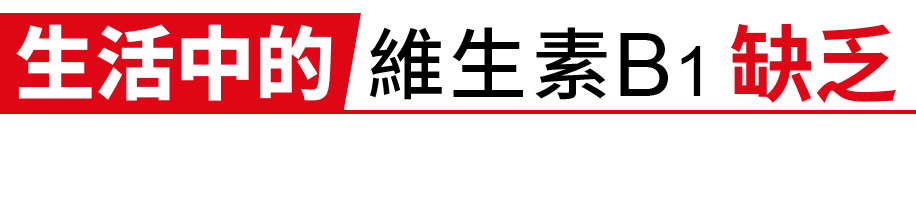
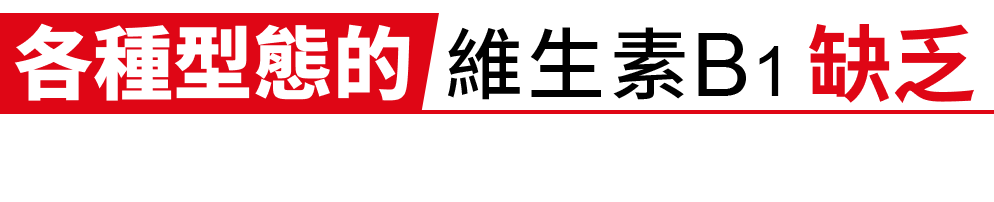
修改選單名稱 #20210705

Changed region(s): [[0.0, 0.0594, 0.9782, 0.5644], [0.917, 0.1188, 0.9782, 0.1782]]

diff --git a/blog-article-01.html b/blog-article-01.html
@@ -65,12 +65,12 @@
         })(window, document, "script", "https://s.yimg.com/wi/ytc.js", "dotq");
     </script>
 
-    <title>生活中的維生素B1缺乏</title>
+    <title>各種型態的維生素B1缺乏</title>
     <meta name="title" content="生活中的維生素B1缺乏" />
     <meta name="description" content="醫療級B群，易被腸道吸收，有效作用快速到達全身" />
     <meta name="keywords" content="台灣武田，合利他命，醫療級B群，A25，強效錠，金強效錠，Alinamin，疲勞無力，眼睛疲勞，肩頸僵硬，腰背酸痛，手腳發麻，嚴重酸痛，神經痛，日本市佔第一" />
     <meta property="og:title" content="合利他命-醫療級維他命B群專家">
-    <meta property="og:description" content="生活中的維生素B1缺乏">
+    <meta property="og:description" content="各種型態的維生素B1缺乏">
     <meta property="og:url" content="https://alinamin.com.tw/fursultiamine">
     <link rel="stylesheet" href="css/blogs.css">
 </head>
@@ -86,7 +86,7 @@
             <div class="content flex-b-c">
                 <a href="index.html" class="logo" g-event="Nav_takeda台灣武田Logo"></a>
                 <nav>
-                    <a class="current" href="blogs.html">生活中的維生素B1缺乏</a>
+                    <a class="current" href="blogs.html">各種型態的維生素B1缺乏</a>
                     <a href="cause.html" g-event="Nav_疲酸麻的原因">你的疲。酸。麻原因</a>
                     <a href="fursultiamine.html" g-event="Nav_醫療級B1 TTFD">合利他命醫療級B群</a>
                     <a href="lineup.html" g-event="Nav_全產品列表">全產品列表</a>
@@ -119,7 +119,7 @@
 
         <div class="menu-wrap">
             <div class="menuBox">
-                <a href="blogs.html">生活中維生素B1缺乏</a>
+                <a href="blogs.html">各型態維生素B1缺乏</a>
                 <a href="cause.html" g-event="Nav_疲酸麻的原因">你的疲。酸。麻原因</a>
                 <a href="fursultiamine.html" g-event="Nav_Nav_醫療級B1 TTFD">合利他命醫療級B群</a>
                 <a href="lineup.html" g-event="Nav_全產品列表">全產品列表</a>

diff --git a/blog-article-02.html b/blog-article-02.html
@@ -65,12 +65,12 @@
         })(window, document, "script", "https://s.yimg.com/wi/ytc.js", "dotq");
     </script>
 
-    <title>生活中的維生素B1缺乏</title>
+    <title>各種型態的維生素B1缺乏</title>
     <meta name="title" content="生活中的維生素B1缺乏" />
     <meta name="description" content="醫療級B群，易被腸道吸收，有效作用快速到達全身" />
     <meta name="keywords" content="台灣武田，合利他命，醫療級B群，A25，強效錠，金強效錠，Alinamin，疲勞無力，眼睛疲勞，肩頸僵硬，腰背酸痛，手腳發麻，嚴重酸痛，神經痛，日本市佔第一" />
     <meta property="og:title" content="合利他命-醫療級維他命B群專家">
-    <meta property="og:description" content="生活中的維生素B1缺乏">
+    <meta property="og:description" content="各種型態的維生素B1缺乏">
     <meta property="og:url" content="https://alinamin.com.tw/fursultiamine">
     <link rel="stylesheet" href="css/blogs.css">
 </head>
@@ -86,7 +86,7 @@
             <div class="content flex-b-c">
                 <a href="index.html" class="logo" g-event="Nav_takeda台灣武田Logo"></a>
                 <nav>
-                    <a class="current" href="blogs.html">生活中的維生素B1缺乏</a>
+                    <a class="current" href="blogs.html">各種型態的維生素B1缺乏</a>
                     <a href="cause.html" g-event="Nav_疲酸麻的原因">你的疲。酸。麻原因</a>
                     <a href="fursultiamine.html" g-event="Nav_醫療級B1 TTFD">合利他命醫療級B群</a>
                     <a href="lineup.html" g-event="Nav_全產品列表">全產品列表</a>
@@ -119,7 +119,7 @@
 
         <div class="menu-wrap">
             <div class="menuBox">
-                <a href="blogs.html">生活中維生素B1缺乏</a>
+                <a href="blogs.html">各型態維生素B1缺乏</a>
                 <a href="cause.html" g-event="Nav_疲酸麻的原因">你的疲。酸。麻原因</a>
                 <a href="fursultiamine.html" g-event="Nav_Nav_醫療級B1 TTFD">合利他命醫療級B群</a>
                 <a href="lineup.html" g-event="Nav_全產品列表">全產品列表</a>

diff --git a/blogs.html b/blogs.html
@@ -86,7 +86,7 @@
             <div class="content flex-b-c">
                 <a href="index.html" class="logo" g-event="Nav_takeda台灣武田Logo"></a>
                 <nav>
-                    <a class="current" href="blogs.html">生活中的維生素B1缺乏</a>
+                    <a class="current" href="blogs.html">各種型態的維生素B1缺乏</a>
                     <a href="cause.html" g-event="Nav_疲酸麻的原因">你的疲。酸。麻原因</a>
                     <a href="fursultiamine.html" g-event="Nav_醫療級B1 TTFD">合利他命醫療級B群</a>
                     <a href="lineup.html" g-event="Nav_全產品列表">全產品列表</a>
@@ -119,7 +119,7 @@
 
         <div class="menu-wrap">
             <div class="menuBox">
-                <a href="blogs.html">生活中維生素B1缺乏</a>
+                <a href="blogs.html">各型態維生素B1缺乏</a>
                 <a href="cause.html" g-event="Nav_疲酸麻的原因">你的疲。酸。麻原因</a>
                 <a href="fursultiamine.html" g-event="Nav_Nav_醫療級B1 TTFD">合利他命醫療級B群</a>
                 <a href="lineup.html" g-event="Nav_全產品列表">全產品列表</a>

diff --git a/cause.html b/cause.html
@@ -86,7 +86,7 @@
             <div class="content flex-b-c">
                 <a href="index.html" class="logo" g-event="Nav_takeda台灣武田Logo"></a>
                 <nav>
-                    <a href="blogs.html">生活中的維生素B1缺乏</a>
+                    <a href="blogs.html">各種型態的維生素B1缺乏</a>
                     <a class="current" href="cause.html" g-event="Nav_疲酸麻的原因">你的疲。酸。麻原因</a>
                     <a href="fursultiamine.html" g-event="Nav_醫療級B1 TTFD">合利他命醫療級B群</a>
                     <a href="lineup.html" g-event="Nav_全產品列表">全產品列表</a>
@@ -119,7 +119,7 @@
 
         <div class="menu-wrap">
             <div class="menuBox">
-                <a href="blogs.html">生活中維生素B1缺乏</a>
+                <a href="blogs.html">各型態維生素B1缺乏</a>
                 <a href="cause.html" g-event="Nav_疲酸麻的原因">你的疲。酸。麻原因</a>
                 <a href="fursultiamine.html" g-event="Nav_Nav_醫療級B1 TTFD">合利他命醫療級B群</a>
                 <a href="lineup.html" g-event="Nav_全產品列表">全產品列表</a>

diff --git a/fursultiamine.html b/fursultiamine.html
@@ -87,7 +87,7 @@
             <div class="content flex-b-c">
                 <a href="index.html" class="logo" g-event="Nav_takeda台灣武田Logo"></a>
                 <nav>
-                    <a href="blogs.html">生活中的維生素B1缺乏</a>
+                    <a href="blogs.html">各種型態的維生素B1缺乏</a>
                     <a href="cause.html" g-event="Nav_疲酸麻的原因">你的疲。酸。麻原因</a>
                     <a class="current" href="fursultiamine.html" g-event="Nav_醫療級B1 TTFD">合利他命醫療級B群</a>
                     <a href="lineup.html" g-event="Nav_全產品列表">全產品列表</a>
@@ -120,7 +120,7 @@
 
         <div class="menu-wrap">
             <div class="menuBox">
-                <a href="blogs.html">生活中維生素B1缺乏</a>
+                <a href="blogs.html">各型態維生素B1缺乏</a>
                 <a href="cause.html" g-event="Nav_疲酸麻的原因">你的疲。酸。麻原因</a>
                 <a href="fursultiamine.html" g-event="Nav_Nav_醫療級B1 TTFD">合利他命醫療級B群</a>
                 <a href="lineup.html" g-event="Nav_全產品列表">全產品列表</a>

diff --git a/lineup.html b/lineup.html
@@ -90,7 +90,7 @@
             <div class="content flex-b-c">
                 <a href="index.html" class="logo" g-event="Nav_takeda台灣武田Logo"></a>
                 <nav>
-                    <a href="blogs.html">生活中的維生素B1缺乏</a>
+                    <a href="blogs.html">各種型態的維生素B1缺乏</a>
                     <a href="cause.html" g-event="Nav_疲酸麻的原因">你的疲。酸。麻原因</a>
                     <a href="fursultiamine.html" g-event="Nav_醫療級B1 TTFD">合利他命醫療級B群</a>
                     <a class="current" href="lineup.html" g-event="Nav_全產品列表">全產品列表</a>
@@ -123,7 +123,7 @@
 
         <div class="menu-wrap">
             <div class="menuBox">
-                <a href="blogs.html">生活中維生素B1缺乏</a>
+                <a href="blogs.html">各型態維生素B1缺乏</a>
                 <a href="cause.html" g-event="Nav_疲酸麻的原因">你的疲。酸。麻原因</a>
                 <a href="fursultiamine.html" g-event="Nav_Nav_醫療級B1 TTFD">合利他命醫療級B群</a>
                 <a href="lineup.html" g-event="Nav_全產品列表">全產品列表</a>

diff --git a/qa.html b/qa.html
@@ -103,7 +103,7 @@
             <div class="content flex-b-c">
                 <a href="index.html" class="logo" g-event="Nav_takeda台灣武田Logo"></a>
                 <nav>
-                    <a href="blogs.html">生活中的維生素B1缺乏</a>
+                    <a href="blogs.html">各種型態的維生素B1缺乏</a>
                     <a href="cause.html" g-event="Nav_疲酸麻的原因">你的疲。酸。麻原因</a>
                     <a href="fursultiamine.html" g-event="Nav_醫療級B1 TTFD">合利他命醫療級B群</a>
                     <a href="lineup.html" g-event="Nav_全產品列表">全產品列表</a>
@@ -136,7 +136,7 @@
 
         <div class="menu-wrap">
             <div class="menuBox">
-                <a href="blogs.html">生活中維生素B1缺乏</a>
+                <a href="blogs.html">各型態維生素B1缺乏</a>
                 <a href="cause.html" g-event="Nav_疲酸麻的原因">你的疲。酸。麻原因</a>
                 <a href="fursultiamine.html" g-event="Nav_Nav_醫療級B1 TTFD">合利他命醫療級B群</a>
                 <a href="lineup.html" g-event="Nav_全產品列表">全產品列表</a>

diff --git a/qaa.html b/qaa.html
@@ -103,7 +103,7 @@
             <div class="content flex-b-c">
                 <a href="index.html" class="logo" g-event="Nav_takeda台灣武田Logo"></a>
                 <nav>
-                    <a href="blogs.html">生活中的維生素B1缺乏</a>
+                    <a href="blogs.html">各種型態的維生素B1缺乏</a>
                     <a href="cause.html" g-event="Nav_疲酸麻的原因">你的疲。酸。麻原因</a>
                     <a href="fursultiamine.html" g-event="Nav_醫療級B1 TTFD">合利他命醫療級B群</a>
                     <a href="lineup.html" g-event="Nav_全產品列表">全產品列表</a>
@@ -136,7 +136,7 @@
 
         <div class="menu-wrap">
             <div class="menuBox">
-                <a href="blogs.html">生活中維生素B1缺乏</a>
+                <a href="blogs.html">各型態維生素B1缺乏</a>
                 <a href="cause.html" g-event="Nav_疲酸麻的原因">你的疲。酸。麻原因</a>
                 <a href="fursultiamine.html" g-event="Nav_Nav_醫療級B1 TTFD">合利他命醫療級B群</a>
                 <a href="lineup.html" g-event="Nav_全產品列表">全產品列表</a>

diff --git a/a25.html b/a25.html
@@ -85,7 +85,7 @@
             <div class="content flex-b-c">
                 <a href="index.html" class="logo" g-event="Nav_takeda台灣武田Logo"></a>
                 <nav>
-                    <a href="blogs.html">生活中的維生素B1缺乏</a>
+                    <a href="blogs.html">各種型態的維生素B1缺乏</a>
                     <a href="cause.html" g-event="Nav_疲酸麻的原因">你的疲。酸。麻原因</a>
                     <a href="fursultiamine.html" g-event="Nav_醫療級B1 TTFD">合利他命醫療級B群</a>
                     <a href="lineup.html" g-event="Nav_全產品列表">全產品列表</a>
@@ -118,7 +118,7 @@
 
         <div class="menu-wrap">
             <div class="menuBox">
-                <a href="blogs.html">生活中維生素B1缺乏</a>
+                <a href="blogs.html">各型態維生素B1缺乏</a>
                 <a href="cause.html" g-event="Nav_疲酸麻的原因">你的疲。酸。麻原因</a>
                 <a href="fursultiamine.html" g-event="Nav_Nav_醫療級B1 TTFD">合利他命醫療級B群</a>
                 <a href="lineup.html" g-event="Nav_全產品列表">全產品列表</a>

diff --git a/buy.html b/buy.html
@@ -91,7 +91,7 @@
             <div class="content flex-b-c">
                 <a href="index.html" class="logo" g-event="Nav_takeda台灣武田Logo"></a>
                 <nav>
-                    <a href="blogs.html">生活中的維生素B1缺乏</a>
+                    <a href="blogs.html">各種型態的維生素B1缺乏</a>
                     <a href="cause.html" g-event="Nav_疲酸麻的原因">你的疲。酸。麻原因</a>
                     <a href="fursultiamine.html" g-event="Nav_醫療級B1 TTFD">合利他命醫療級B群</a>
                     <a href="lineup.html" g-event="Nav_全產品列表">全產品列表</a>
@@ -124,7 +124,7 @@
 
         <div class="menu-wrap">
             <div class="menuBox">
-                <a href="blogs.html">生活中維生素B1缺乏</a>
+                <a href="blogs.html">各型態維生素B1缺乏</a>
                 <a href="cause.html" g-event="Nav_疲酸麻的原因">你的疲。酸。麻原因</a>
                 <a href="fursultiamine.html" g-event="Nav_Nav_醫療級B1 TTFD">合利他命醫療級B群</a>
                 <a href="lineup.html" g-event="Nav_全產品列表">全產品列表</a>

diff --git a/exgold.html b/exgold.html
@@ -87,7 +87,7 @@
             <div class="content flex-b-c">
                 <a href="index.html" class="logo" g-event="Nav_takeda台灣武田Logo"></a>
                 <nav>
-                    <a href="blogs.html">生活中的維生素B1缺乏</a>
+                    <a href="blogs.html">各種型態的維生素B1缺乏</a>
                     <a href="cause.html" g-event="Nav_疲酸麻的原因">你的疲。酸。麻原因</a>
                     <a href="fursultiamine.html" g-event="Nav_醫療級B1 TTFD">合利他命醫療級B群</a>
                     <a href="lineup.html" g-event="Nav_全產品列表">全產品列表</a>
@@ -120,7 +120,7 @@
 
         <div class="menu-wrap">
             <div class="menuBox">
-                <a href="blogs.html">生活中維生素B1缺乏</a>
+                <a href="blogs.html">各型態維生素B1缺乏</a>
                 <a href="cause.html" g-event="Nav_疲酸麻的原因">你的疲。酸。麻原因</a>
                 <a href="fursultiamine.html" g-event="Nav_Nav_醫療級B1 TTFD">合利他命醫療級B群</a>
                 <a href="lineup.html" g-event="Nav_全產品列表">全產品列表</a>

diff --git a/explus.html b/explus.html
@@ -87,7 +87,7 @@
             <div class="content flex-b-c">
                 <a href="index.html" class="logo" g-event="Nav_takeda台灣武田Logo"></a>
                 <nav>
-                    <a href="blogs.html">生活中的維生素B1缺乏</a>
+                    <a href="blogs.html">各種型態的維生素B1缺乏</a>
                     <a href="cause.html" g-event="Nav_疲酸麻的原因">你的疲。酸。麻原因</a>
                     <a href="fursultiamine.html" g-event="Nav_醫療級B1 TTFD">合利他命醫療級B群</a>
                     <a href="lineup.html" g-event="Nav_全產品列表">全產品列表</a>
@@ -120,7 +120,7 @@
 
         <div class="menu-wrap">
             <div class="menuBox">
-                <a href="blogs.html">生活中維生素B1缺乏</a>
+                <a href="blogs.html">各型態維生素B1缺乏</a>
                 <a href="cause.html" g-event="Nav_疲酸麻的原因">你的疲。酸。麻原因</a>
                 <a href="fursultiamine.html" g-event="Nav_Nav_醫療級B1 TTFD">合利他命醫療級B群</a>
                 <a href="lineup.html" g-event="Nav_全產品列表">全產品列表</a>
